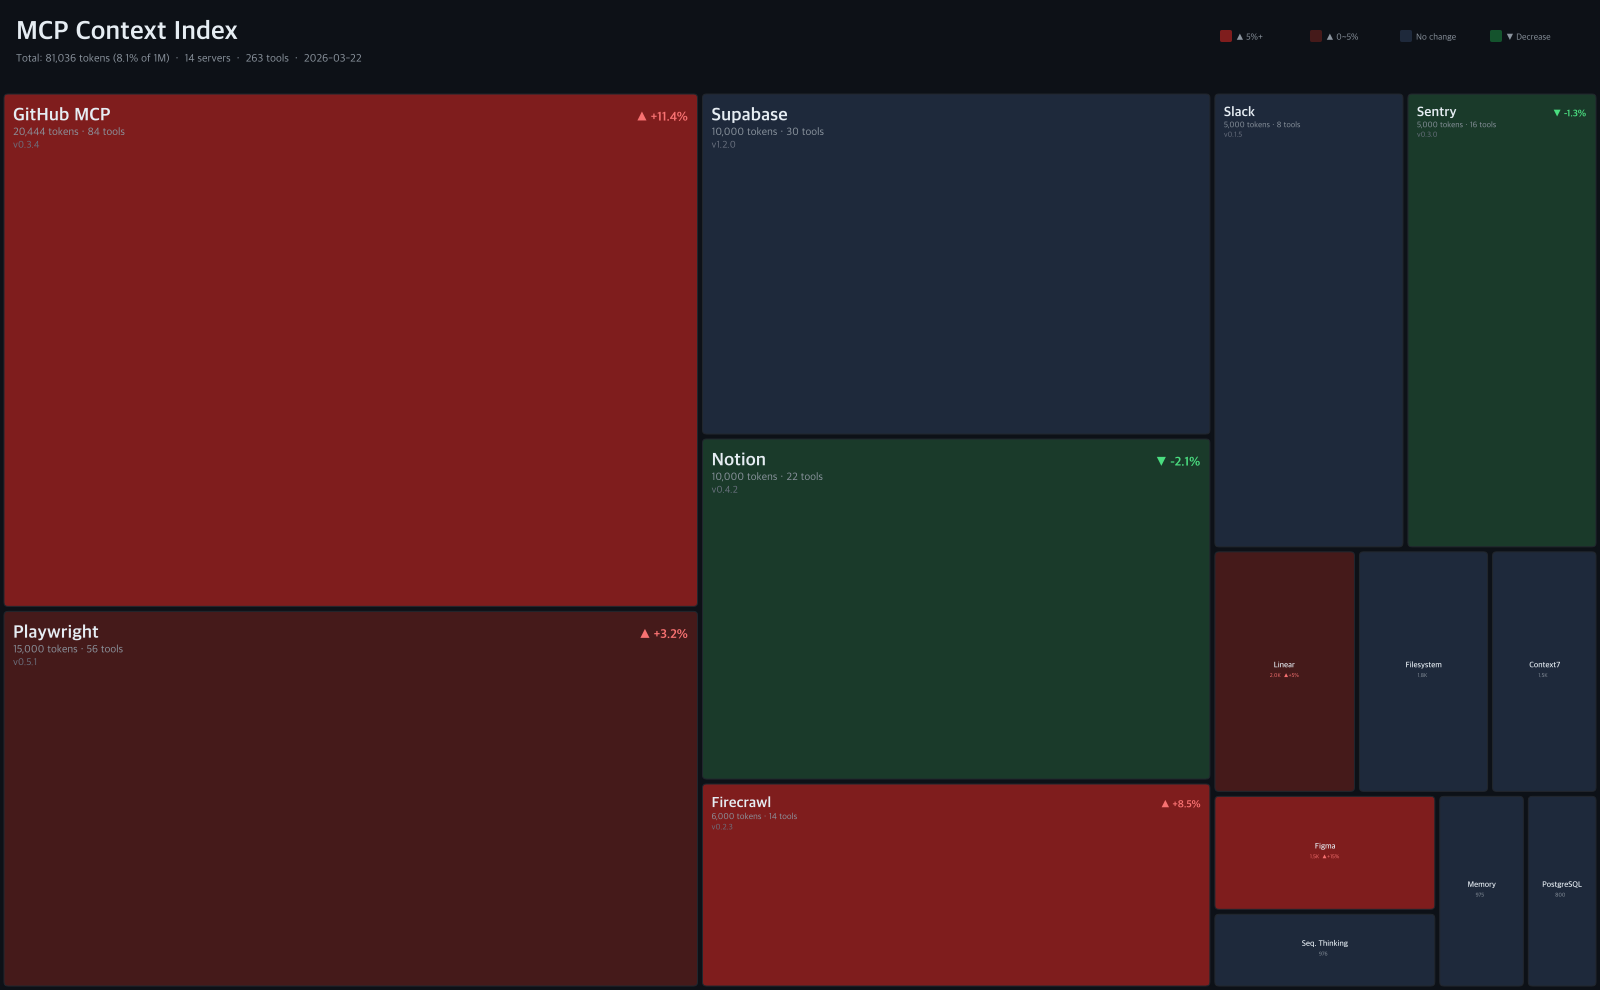
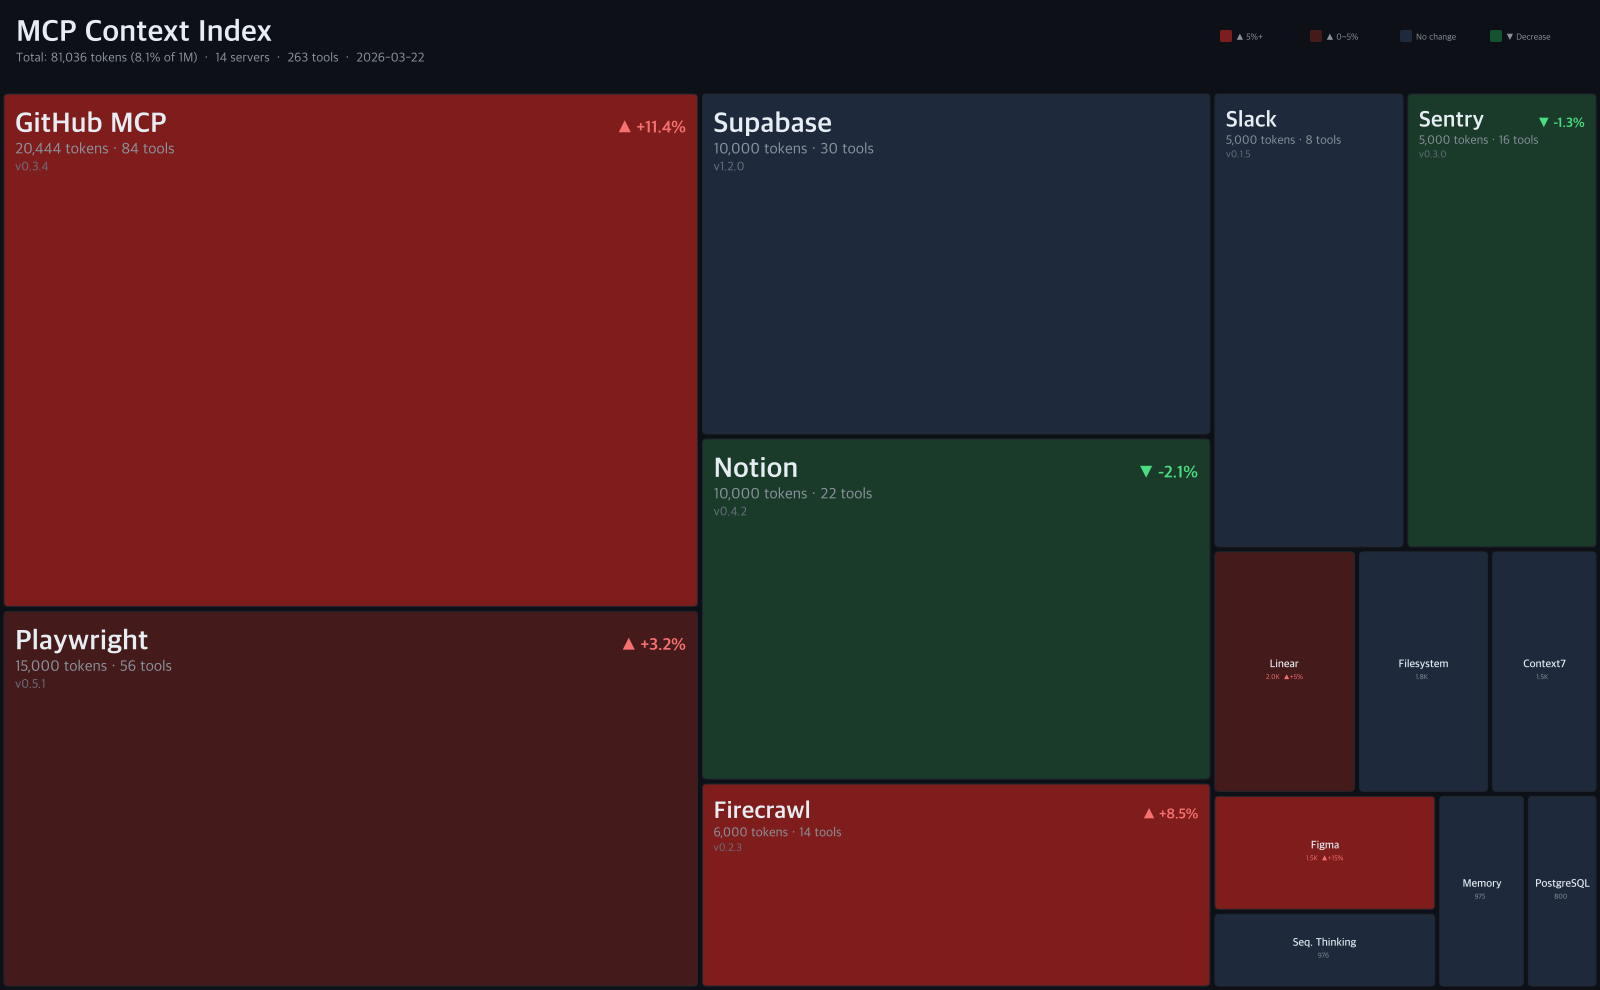
Increase font sizes for better readability
Headers, block labels, and detail text all scaled up.
Easier to read when shared on social media.

diff --git a/scripts/render-treemap.js b/scripts/render-treemap.js
@@ -137,44 +137,44 @@ function renderMcpTreemap(snapshot) {
 
     if (areaRatio > 0.04) {
       // Large block: full detail
-      const fs = Math.min(18, Math.max(10, Math.pow(areaRatio, 0.4) * 42));
+      const fs = Math.min(28, Math.max(14, Math.pow(areaRatio, 0.35) * 60));
 
       // Name (top-left)
       setFont(ctx, fs, 'bold');
       ctx.fillStyle = STYLE.textPrimary;
       ctx.textAlign = 'left';
-      ctx.fillText(d.name, x + 10, y + 10 + fs);
+      ctx.fillText(d.name, x + 12, y + 12 + fs);
 
       // Tokens + tools
-      setFont(ctx, fs * 0.6);
+      setFont(ctx, fs * 0.55);
       ctx.fillStyle = STYLE.textSecondary;
-      ctx.fillText(`${d.tokens.toLocaleString()} tokens · ${d.tools} tools`, x + 10, y + 10 + fs + fs * 0.8);
+      ctx.fillText(`${d.tokens.toLocaleString()} tokens · ${d.tools} tools`, x + 12, y + 12 + fs + fs * 0.75);
 
       // Version
       if (d.version) {
-        setFont(ctx, fs * 0.55);
+        setFont(ctx, fs * 0.45);
         ctx.fillStyle = STYLE.textMuted;
-        ctx.fillText(`v${d.version}`, x + 10, y + 10 + fs + fs * 0.8 + fs * 0.7);
+        ctx.fillText(`v${d.version}`, x + 12, y + 12 + fs + fs * 0.75 + fs * 0.6);
       }
 
       // Change badge (top-right)
       if (changePct !== 0) {
         const arrow = changePct > 0 ? `▲ +${changePct}%` : `▼ ${changePct}%`;
-        setFont(ctx, fs * 0.7, 'bold');
+        setFont(ctx, fs * 0.6, 'bold');
         ctx.fillStyle = changeBadgeColor(changePct);
         ctx.textAlign = 'right';
-        ctx.fillText(arrow, x + w - 10, y + 10 + fs);
+        ctx.fillText(arrow, x + w - 12, y + 12 + fs);
         ctx.textAlign = 'left';
       }
     } else if (areaRatio > 0.008) {
       // Medium block
-      const fs = Math.max(8, Math.pow(areaRatio, 0.5) * 35);
+      const fs = Math.max(11, Math.pow(areaRatio, 0.45) * 50);
       setFont(ctx, fs, 'semibold');
       ctx.fillStyle = STYLE.textPrimary;
       ctx.textAlign = 'center';
       ctx.fillText(d.name, x + w / 2, y + h / 2 - 4);
 
-      setFont(ctx, fs * 0.7);
+      setFont(ctx, fs * 0.65);
       const changeTxt = changePct !== 0
         ? (changePct > 0 ? `▲+${changePct}%` : `▼${changePct}%`)
         : '';
@@ -183,7 +183,7 @@ function renderMcpTreemap(snapshot) {
       ctx.textAlign = 'left';
     } else if (areaRatio > 0.003) {
       // Small block: name only
-      const fs = Math.max(7, Math.pow(areaRatio, 0.5) * 30);
+      const fs = Math.max(9, Math.pow(areaRatio, 0.45) * 40);
       setFont(ctx, fs);
       ctx.fillStyle = STYLE.textMuted;
       ctx.textAlign = 'center';
@@ -197,12 +197,12 @@ function renderMcpTreemap(snapshot) {
   ctx.fillRect(0, 0, W, HEADER);
 
   // Title
-  setFont(ctx, 26, 'bold');
+  setFont(ctx, 30, 'bold');
   ctx.fillStyle = STYLE.textPrimary;
-  ctx.fillText('MCP Context Index', 16, 40);
+  ctx.fillText('MCP Context Index', 16, 42);
 
   // Subtitle
-  setFont(ctx, 11);
+  setFont(ctx, 13);
   ctx.fillStyle = STYLE.textSecondary;
   ctx.fillText(
     `Total: ${totalTokens.toLocaleString()} tokens (${(totalTokens / 1000000 * 100).toFixed(1)}% of 1M)  ·  ${servers.length} servers  ·  ${totalTools} tools  ·  ${snapshot.date}`,
@@ -301,26 +301,26 @@ function renderAgentContext(agentName, agentData, mcpSnapshot) {
     const pct = (d.tokens / TOTAL * 100).toFixed(1);
 
     if (areaRatio > 0.02) {
-      const fs = Math.min(18, Math.max(9, Math.pow(areaRatio, 0.4) * 40));
+      const fs = Math.min(28, Math.max(12, Math.pow(areaRatio, 0.35) * 55));
       setFont(ctx, fs, isFree ? 'bold' : 'semibold');
       ctx.fillStyle = isFree ? STYLE.green : STYLE.textPrimary;
       ctx.textAlign = 'left';
-      ctx.fillText(d.name, x + 10, y + 10 + fs);
+      ctx.fillText(d.name, x + 12, y + 12 + fs);
 
-      setFont(ctx, fs * 0.6);
+      setFont(ctx, fs * 0.55);
       ctx.fillStyle = isFree ? '#22c55e88' : STYLE.textSecondary;
-      ctx.fillText(`${formatTokens(d.tokens)} (${pct}%)`, x + 10, y + 10 + fs + fs * 0.8);
+      ctx.fillText(`${formatTokens(d.tokens)} (${pct}%)`, x + 12, y + 12 + fs + fs * 0.75);
 
       if (d.change && d.change !== 0) {
         const arrow = d.change > 0 ? `▲ +${d.change}%` : `▼ ${d.change}%`;
-        setFont(ctx, fs * 0.65, 'bold');
+        setFont(ctx, fs * 0.55, 'bold');
         ctx.fillStyle = changeBadgeColor(d.change);
         ctx.textAlign = 'right';
-        ctx.fillText(arrow, x + w - 10, y + 10 + fs);
+        ctx.fillText(arrow, x + w - 12, y + 12 + fs);
         ctx.textAlign = 'left';
       }
     } else if (areaRatio > 0.005) {
-      const fs = Math.max(7, Math.pow(areaRatio, 0.5) * 30);
+      const fs = Math.max(10, Math.pow(areaRatio, 0.45) * 40);
       setFont(ctx, fs);
       ctx.fillStyle = isFree ? STYLE.green : STYLE.textMuted;
       ctx.textAlign = 'center';
@@ -336,11 +336,11 @@ function renderAgentContext(agentName, agentData, mcpSnapshot) {
   ctx.fillRect(0, 0, W, HEADER);
 
   const freePct = (free / TOTAL * 100).toFixed(1);
-  setFont(ctx, 24, 'bold');
+  setFont(ctx, 28, 'bold');
   ctx.fillStyle = STYLE.textPrimary;
-  ctx.fillText(`${agentName} — Context Window (${totalLabel})`, 16, 38);
+  ctx.fillText(`${agentName} — Context Window (${totalLabel})`, 16, 42);
 
-  setFont(ctx, 11);
+  setFont(ctx, 13);
   ctx.fillStyle = STYLE.textSecondary;
   ctx.fillText(
     `System: ${formatTokens(used)} (${(used / TOTAL * 100).toFixed(1)}%)  ·  Available: ${formatTokens(free)} (${freePct}%)  ·  ${mcpSnapshot?.servers?.length || 0} MCP servers  ·  ${mcpSnapshot?.date || ''}`,
